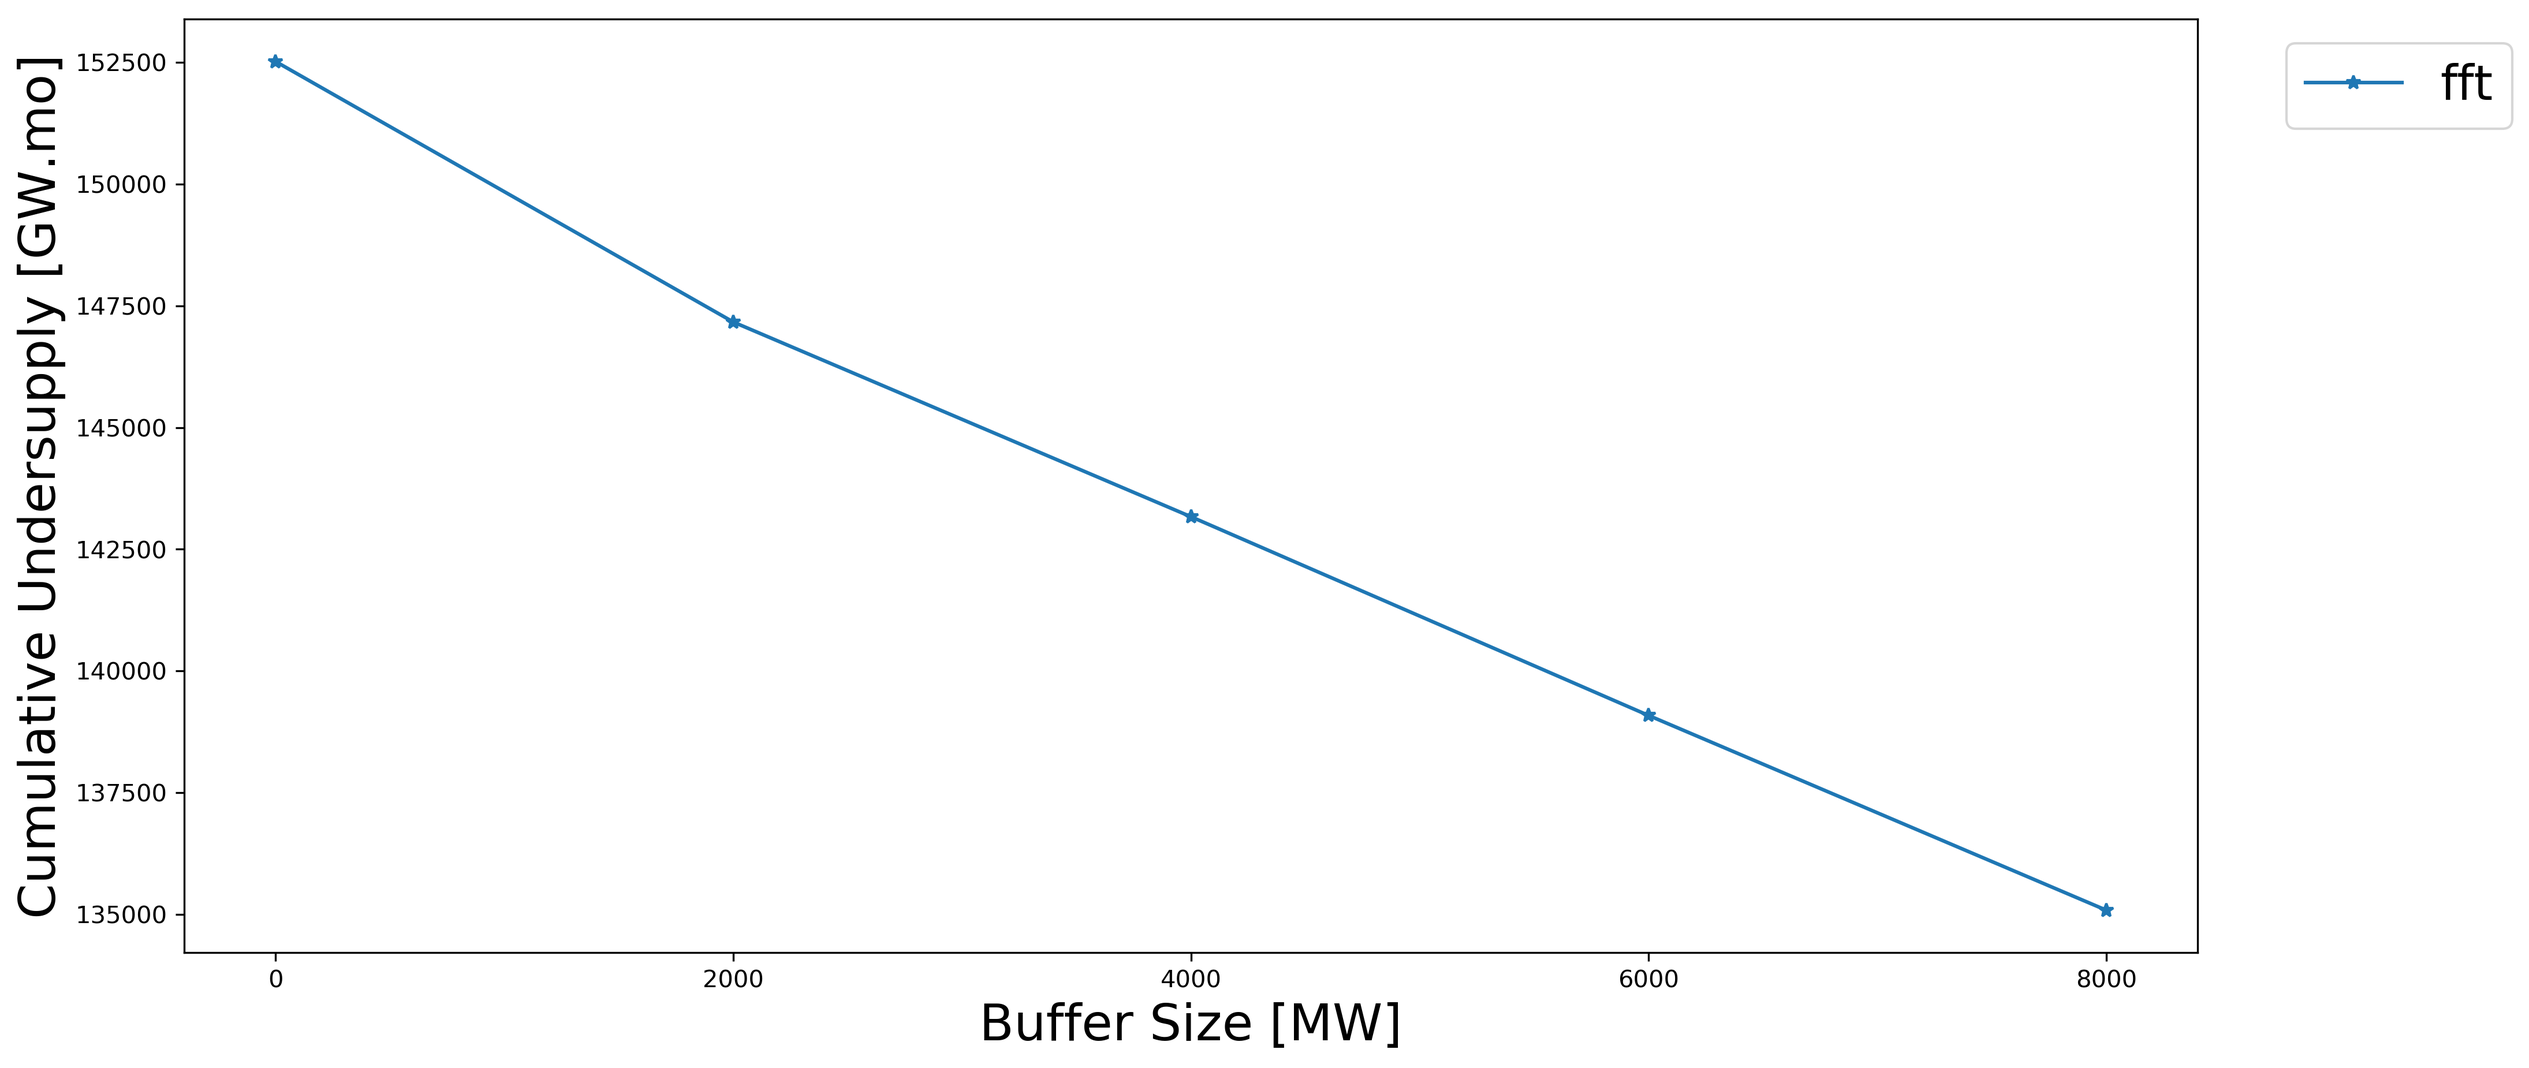
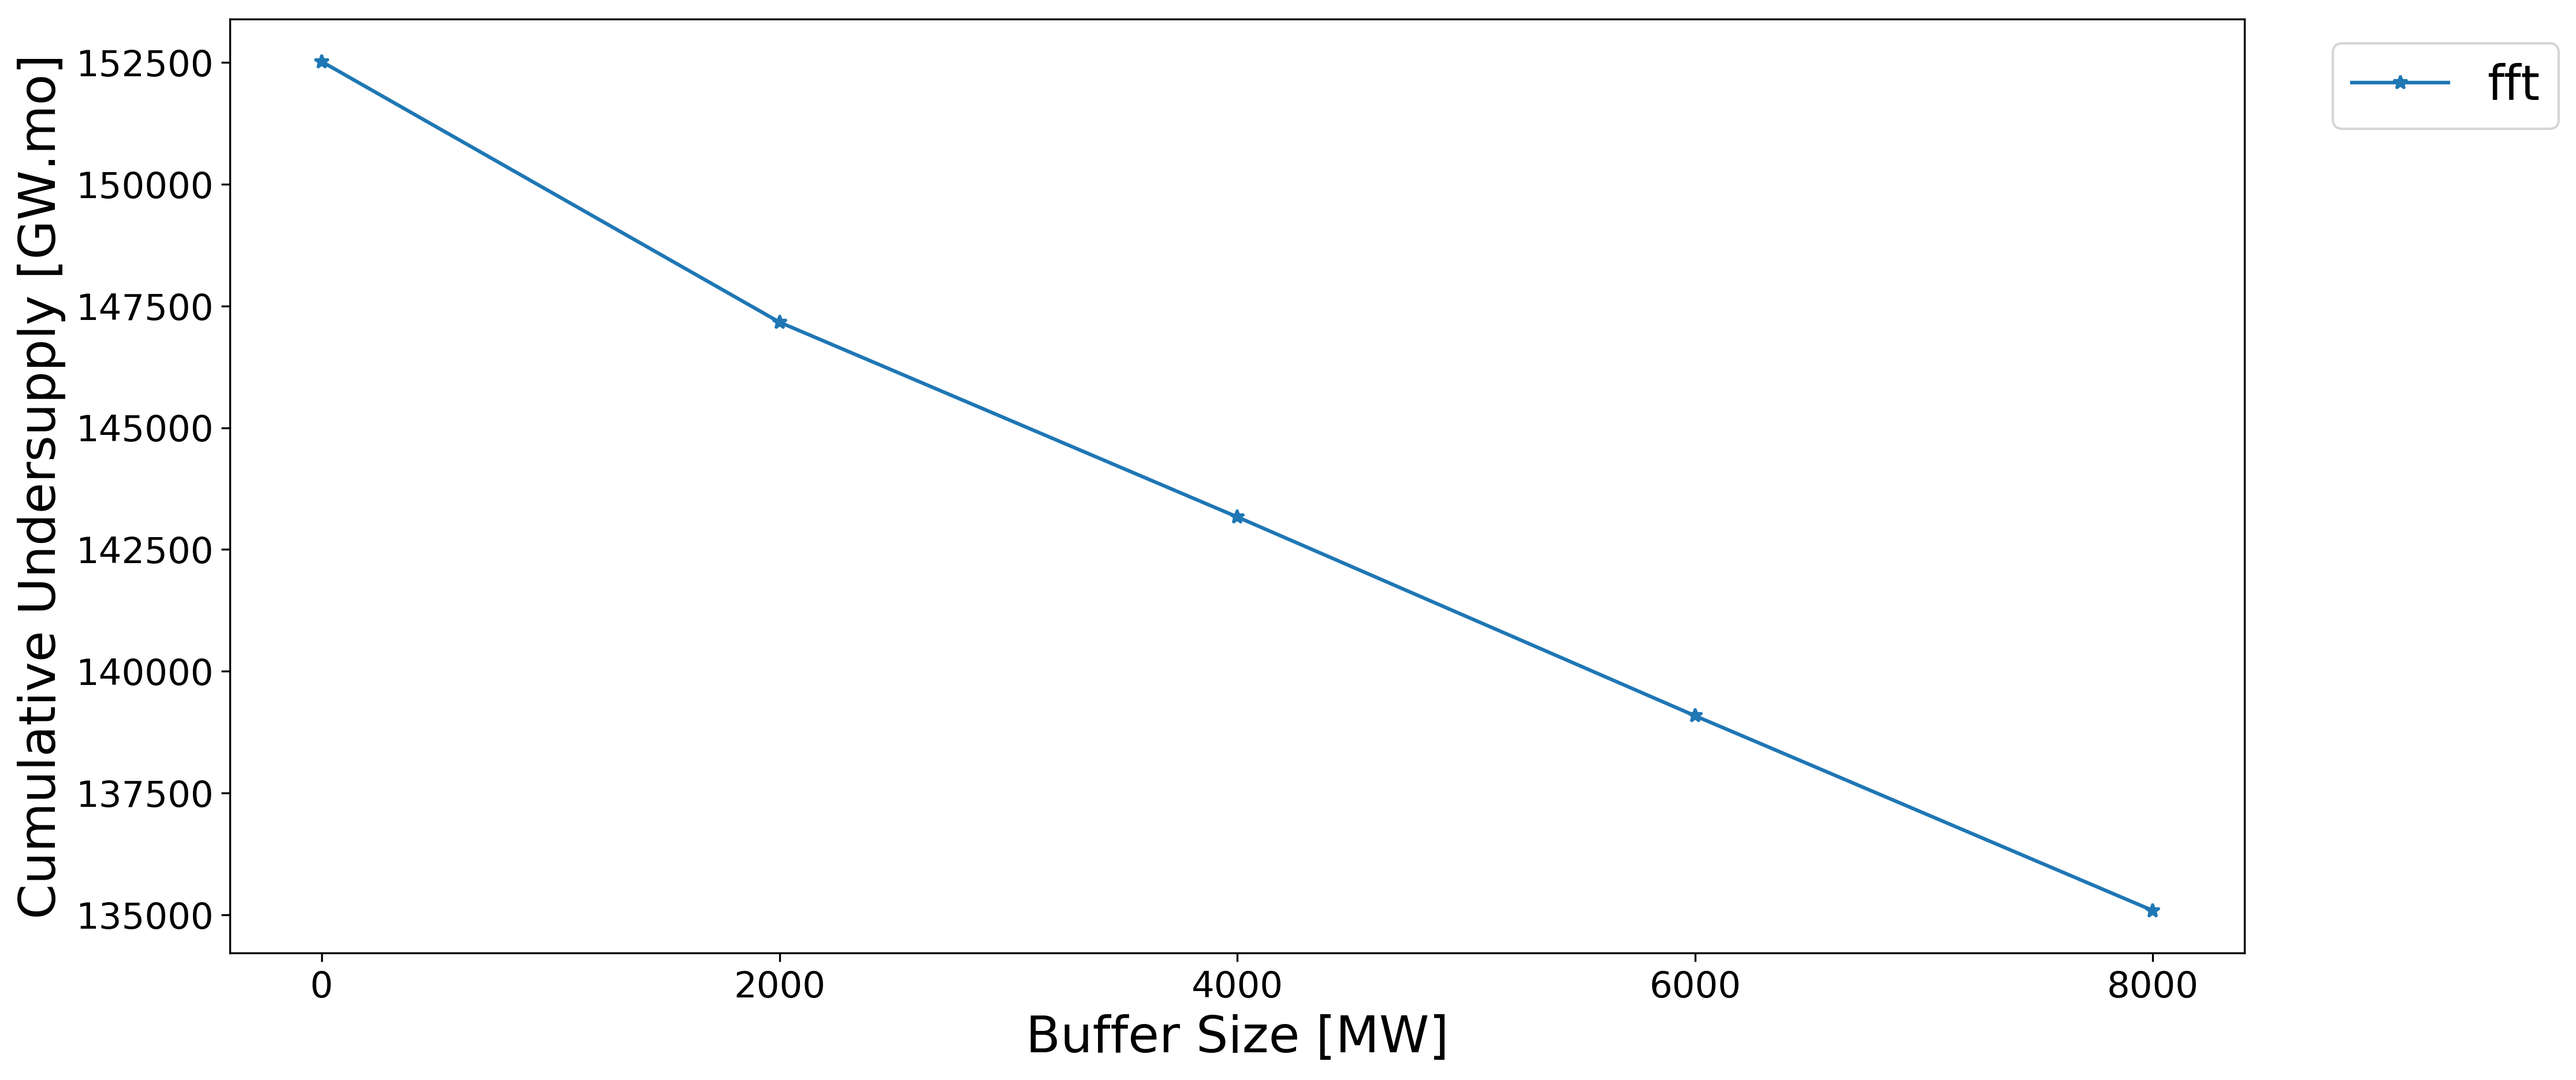
change in the fontsize

diff --git a/docs/final-report/report.tex b/docs/final-report/report.tex
@@ -80,15 +80,30 @@ Figure \ref{fig:23flow} shows the flow of Eg01-Eg23.
 
 \subsection{Flat Power Demand}
 
-This section presents plots of power for all the prediction methods. The power demand is 60000 MW throughout the whole simulation. The input files use the installed capacity feature. Buffer is set to zero, back steps is set to two, and steps takes the default value of one.
-Figures \ref{fig:23-NO}, \ref{fig:23-DO}, and \ref{fig:23-SO} display the power supply and demand.
-Table \ref{tab:23-power} records the number of steps whit under supply, the cumulative under supply, and the cumulative oversupply.
+This section presents plots of power for all the prediction methods. The power demand is 60000 MW throughout the whole simulation. Table \ref{tab:23-inputs} shows the input file values. Figures \ref{fig:23-NO}, \ref{fig:23-DO}, and \ref{fig:23-SO} display the power demand supply for the Non-optimizing (NO), Deterministic-optimizing (DO), and Stochastic-optimizing methods (SO), respectively.
+Table \ref{tab:23-power} records the number of steps with under supply, the cumulative under supply, and the cumulative oversupply. Cumulative under supply and cumulative oversupply represent the summation of the difference between the power supplied and the power demanded for all the time steps in the simulation. This magnitude could best be thought of as energy. The cumulative under supply represents the energy not provided during the time steps in which the supply did not meet the demand. Likewise, the oversupply would be the excess energy produced.
+By looking at table \ref{tab:23-power}, the smallest cumulative under supply and smallest amount of under supply time steps are for poly.
+
+\begin{table}[H]
+	\centering
+	\caption{EG01-EG23 input file values.}
+	\label{tab:23-inputs}
+	\begin{tabularx}{\textwidth}{lR}
+		\hline
+		Parameter			& Value \\ 	\hline
+		Demand equation		& 60e3  \\
+		Installed Capacity 	& 1 \\
+		Buffer    			& 0 \\
+		Forward Steps		& 1 \\
+		Backward Steps		& 2 \\		\hline
+	\end{tabularx}
+\end{table}
 
 \begin{figure}[H]
 	\centering
 	\includegraphics[width=\textwidth]{23-figures/23-power0-buffer01.png} 
 	\hfill
-	\caption{Constant power demand of 60GW and power supply with NO algorithms.}
+	\caption{Constant power demand of 60GW and power supply obtained with the NO algorithms.}
 	\label{fig:23-NO}
 \end{figure}
 
@@ -96,7 +111,7 @@ Table \ref{tab:23-power} records the number of steps whit under supply, the cumu
 	\centering
 	\includegraphics[width=\textwidth]{23-figures/23-power0-buffer02.png} 
 	\hfill
-	\caption{Constant power demand of 60GW and power supply with DO algorithms.}
+	\caption{Constant power demand of 60GW and power supply obtained with the DO algorithms.}
 	\label{fig:23-DO}
 \end{figure}
 
@@ -104,13 +119,13 @@ Table \ref{tab:23-power} records the number of steps whit under supply, the cumu
 	\centering
 	\includegraphics[width=\textwidth]{23-figures/23-power0-buffer03.png} 
 	\hfill
-	\caption{Constant power demand of 60GW and power supply with SO algorithms.}
+	\caption{Constant power demand of 60GW and power supply obtained with the SO algorithms.}
 	\label{fig:23-SO}
 \end{figure}
 
 \begin{table}[H]
 	\centering
-	\caption{Undersupply and oversupply of Power for the different algorithms used to calculate EG01-EG23.}
+	\caption{Undersupply and oversupply of Power for the different prediction algorithms used to calculate EG01-EG23.}
 	\label{tab:23-power}
 	\begin{tabularx}{\textwidth}{lRRR}
 		\hline
@@ -129,11 +144,7 @@ Table \ref{tab:23-power} records the number of steps whit under supply, the cumu
 
 \subsection{Buffer}
 
-This section presents a sensitivity analysis for different values of the buffer. Figure \ref{fig:23-buff} shows a comparison of the cumulative under supply for different buffer sizes.
-
-Figures \ref{fig:23-buf-ma} to \ref{fig:23-buf-fft} display a comparison for some of the methods of the power supply for different buffer sizes.
-
-The input files use the installed capacity feature. Buffer takes the values 0, 2000, 4000, 6000, and 8000. Back steps is set to two, and steps takes the default value of one.
+This section presents a sensitivity analysis for different values of the buffer. Figure \ref{fig:23-buff} shows a comparison of the cumulative under supply for different buffer sizes for some of the prediction methods. The cumulative under supply, remains constant for some of the methods and decreases with the increase of the buffer for others. Figure \ref{fig:23-buf-poly} displays the power supply and demand for different values of the buffer using poly. For this last case, the under supply remains constant. Figure \ref{fig:23-buf-poly} helps to understand the observed behavior. During at the transition we can see that even for the buffer with size 0 there is no under supply. Then, increasing the buffer will not decrease an under supply that is already zero.
 
 \begin{figure}[H]
 	\centering
@@ -145,76 +156,26 @@ The input files use the installed capacity feature. Buffer takes the values 0, 2
 
 \begin{figure}[H]
 	\centering
-	\includegraphics[width=\textwidth]{23-figures/23-power-buffer-ma.png} 
-	\hfill
-	\caption{Power supply for different buffer sizes using ma.}
-	\label{fig:23-buf-ma}
-\end{figure}
-
-\begin{figure}[H]
-	\centering
-	\includegraphics[width=\textwidth]{23-figures/23-power-buffer-arma.png} 
-	\hfill
-    \caption{Power supply for different buffer sizes using arma.}
-	\label{fig:23-buf-arma}
-\end{figure}
-
-\begin{figure}[H]
-	\centering
-	\includegraphics[width=\textwidth]{23-figures/23-power-buffer-arch.png} 
-	\hfill
-    \caption{Power supply for different buffer sizes using arch.}
-	\label{fig:23-buf-arch}
-\end{figure}
-
-\begin{figure}[H]
-	\centering
 	\includegraphics[width=\textwidth]{23-figures/23-power-buffer-poly.png} 
 	\hfill
-    \caption{Power supply for different buffer sizes using poly.}
+	\caption{Power supply for different buffer sizes using poly.}
 	\label{fig:23-buf-poly}
 \end{figure}
 
-\begin{figure}[H]
-	\centering
-	\includegraphics[width=\textwidth]{23-figures/23-power-buffer-exp_smoothing.png} 
-	\hfill
-    \caption{Power supply for different buffer sizes using exp\_smoothing.}
-	\label{fig:23-buf-exp_smoothing}
-\end{figure}
+\subsection{Forward Steps}
 
-\begin{figure}[H]
-	\centering
-	\includegraphics[width=\textwidth]{23-figures/23-power-buffer-holt_winters.png} 
-	\hfill
-	\caption{Power supply for different buffer sizes using holt\_winters.}
-	\label{fig:23-buf-hots_winters}
-\end{figure}
-
-\begin{figure}[H]
-	\centering
-	\includegraphics[width=\textwidth]{23-figures/23-power-buffer-fft.png} 
-	\hfill
-    \caption{Power supply for different buffer sizes using fft.}
-	\label{fig:23-buf-fft}
-\end{figure}
-
-\subsection{Steps forward}
-
-This section presents a sensitivity analysis for different values of steps.
-Figure \ref{fig:23-steps} shows a comparison of the cumulative under supply for different values of steps forward.
-
-Figures \ref{fig:23-ste-poly} and \ref{fig:23-ste-fft} display a comparison for some of the methods of the power supply for different steps.
-
-The input files use the installed capacity feature. Buffer is set to zero, back steps is set to two, and steps takes the values 1, 2, 3, 4, and 5.
-
-Seeing figure \ref{fig:23-steps} we note that the more steps used, the worse the simulation performs. Figure \ref{fig:23-ste-fft-mixerout} helps to understand such behavior. 'Mixerout' is the commodity that represents the fuel that FR use. This figure shows that the LWRs produce enough fuel to almost start all the FRs. However, this expense of fuel is too big to keep the ones already deployed running until they produce their own fuel, so their power supply oscillates. The steps capability should be used cautiously to avoid this from happening.
+This section presents a sensitivity analysis for different values of forward steps chosen for the input files.
+Figure \ref{fig:23-steps} shows a plot of the cumulative under supply for different values of forward steps using poly.
+Slightly increasing the number of forward steps decreases the under supply. Increasing the number of forward steps too much has a negative impact on the results.
+Figures \ref{fig:23-ste-poly} displays the plots for power supply for different number of forward steps. For 4 and 5 forward steps, the under supply increases.
+The cause of this is that increasing the number of forward steps increases the supply of power. The increase in power production means that more reactors are deployed and consequently, more fuel to start is required. As they require too much fuel, the reactors will not start properly, and the scenario will fail. Figure \ref{fig:23-ste-fft-mixerout} helps to understand this behavior. This figure shows that the demand of fuel for the FRs is larger than the supply of the same commodity.
+The forward steps capability should be used cautiously to avoid this under supply from happening.
 
 \begin{figure}[H]
 	\centering
 	\includegraphics[width=\textwidth]{23-figures/23-sens-steps.png} 
 	\hfill
-	\caption{Sensitivity analysis for different number of steps forward for some prediction algorithms.}
+	\caption{Cumulative under supply for different number of forward steps using poly.}
 	\label{fig:23-steps}
 \end{figure}
 
@@ -228,90 +189,10 @@ Seeing figure \ref{fig:23-steps} we note that the more steps used, the worse the
 
 \begin{figure}[H]
 	\centering
-	\includegraphics[width=\textwidth]{23-figures/23-power-buffer0-fft-steps.png} 
+	\includegraphics[width=\textwidth]{23-figures/0-S5-poly-mixerout.png} 
 	\hfill
-	\caption{Power supply for different values of steps forward using fft.}
-	\label{fig:23-ste-fft}
-\end{figure}
-
-\begin{figure}[H]
-	\centering
-	\includegraphics[width=\textwidth]{23-figures/0-S4-fft-mixerout.png} 
-	\hfill
-	\caption{Power supply for 4 steps forward using fft.}
+	\caption{Power supply for 5 forward steps using poly.}
 	\label{fig:23-ste-fft-mixerout}
-\end{figure}
-
-\subsection{Back steps}
-
-This section presents a sensitivity analysis for different values of  back steps. Figure \ref{fig:23-backs} shows a comparison of the cumulative under supply for different values of back steps.
-
-Figures \ref{fig:23-back-ma} to \ref{fig:23-back-fft} display a comparison for some of the methods of the power supply for different values of back steps.
-
-The input files use the installed capacity feature. The buffer is set to zero, steps is set to two, and back steps takes the values 1, 2, 3, 4, and 5.
-
-\begin{figure}[H]
-	\centering
-	\includegraphics[width=\textwidth]{23-figures/23-sens-backs.png} 
-	\hfill
-	\caption{Sensitivity analysis for different number of back steps for some prediction algorithms.}
-	\label{fig:23-backs}
-\end{figure}
-
-\begin{figure}[H]
-	\centering
-	\includegraphics[width=\textwidth]{23-figures/23-power-buffer0-ma-back.png} 
-	\hfill
-	\caption{Power supply for different values of back steps using ma.}
-	\label{fig:23-back-ma}
-\end{figure}
-
-\begin{figure}[H]
-	\centering
-	\includegraphics[width=\textwidth]{23-figures/23-power-buffer0-arma-back.png} 
-	\hfill
-	\caption{Power supply for different values of back steps using arma.}
-	\label{fig:23-back-arma}
-\end{figure}
-
-\begin{figure}[H]
-	\centering
-	\includegraphics[width=\textwidth]{23-figures/23-power-buffer0-arch-back.png} 
-	\hfill
-	\caption{Power supply for different values of back steps using arch.}
-	\label{fig:23-back-arch}
-\end{figure}
-
-\begin{figure}[H]
-	\centering
-	\includegraphics[width=\textwidth]{23-figures/23-power-buffer0-poly-back.png} 
-	\hfill
-	\caption{Power supply for different values of back steps using poly.}
-	\label{fig:23-back-poly}
-\end{figure}
-
-\begin{figure}[H]
-	\centering
-	\includegraphics[width=\textwidth]{23-figures/23-power-buffer0-exp_smoothing-back.png} 
-	\hfill
-	\caption{Power supply for different values of back steps using exp\_smoothing.}
-	\label{fig:23-back-exp_smoothing}
-\end{figure}
-
-\begin{figure}[H]
-	\centering
-	\includegraphics[width=\textwidth]{23-figures/23-power-buffer0-holt_winters-back.png} 
-	\hfill
-	\caption{Power supply for different values of back steps using holt\_winters.}
-	\label{fig:23-back-hots_winters}
-\end{figure}
-
-\begin{figure}[H]
-	\centering
-	\includegraphics[width=\textwidth]{23-figures/23-power-buffer0-fft-back.png} 
-	\hfill
-	\caption{Power supply for different values of back steps using fft.}
-	\label{fig:23-back-fft}
 \end{figure}
 
 \subsection{Different commodities}
@@ -504,7 +385,7 @@ Table \ref{tab:24-lin-power} records the number of steps whit under supply, the 
 	\centering
 	\includegraphics[width=\textwidth]{24-figures/lin-24-power-buffer01.png} 
 	\hfill
-	\caption{NO algorithms.}
+	\caption{Linearly increasing power demand of 250MW/y and power supply obtained with the NO algorithms.}
 	\label{fig:24-lin-NO}
 \end{figure}
 
@@ -512,7 +393,7 @@ Table \ref{tab:24-lin-power} records the number of steps whit under supply, the 
 	\centering
 	\includegraphics[width=\textwidth]{24-figures/lin-24-power-buffer02.png} 
 	\hfill
-	\caption{DO algorithms.}
+	\caption{Linearly increasing power demand of 250MW/y and power supply obtained with the DO algorithms.}
 	\label{fig:24-lin-DO}
 \end{figure}
 
@@ -520,13 +401,13 @@ Table \ref{tab:24-lin-power} records the number of steps whit under supply, the 
 	\centering
 	\includegraphics[width=\textwidth]{24-figures/lin-24-power-buffer03.png} 
 	\hfill
-	\caption{SO algorithms.}
+	\caption{Linearly increasing power demand of 250MW/y and power supply obtained with the SO algorithms.}
 	\label{fig:24-lin-SO}
 \end{figure}
 
 \begin{table}[H]
 	\centering
-	\caption{Undersupply and oversupply of Power for the different algorithms used to calculate EG01-EG24.}
+	\caption{Undersupply and oversupply of Power for the different prediction algorithms used to calculate EG01-EG24.}
 	\label{tab:24-lin-power}
 	\begin{tabularx}{\textwidth}{lRRR}
 		\hline
@@ -579,7 +460,7 @@ Figure \ref{fig:29flow} shows the flow of Eg01-Eg29.
 	\label{fig:29flow}
 \end{figure}
 
-\subsection{Power}
+\subsection{Flat Power Demand}
 
 This section presents plots of power for all the prediction methods. The power demand is 60000 MW throughout the whole simulation. The input files use the installed capacity feature. Buffer is set to zero, back steps is set to two, and steps takes the default value of one.
 Figures \ref{fig:29-NO}, \ref{fig:29-DO}, and \ref{fig:29-SO} display the power supply and demand.
@@ -611,7 +492,7 @@ Table \ref{tab:29-power} records the number of steps with under supply, the cumu
 
 \begin{table}[H]
 	\centering
-	\caption{Undersupply and oversupply of Power for the different algorithms used to calculate EG01-EG29.}
+	\caption{Undersupply and oversupply of Power for the different prediction algorithms used to calculate EG01-EG29.}
 	\label{tab:29-power}
 	\begin{tabularx}{\textwidth}{lRRR}
 		\hline
@@ -700,7 +581,7 @@ The input files use the installed capacity feature. Buffer takes the values 0, 2
 	\label{fig:29-buf-fft}
 \end{figure}
 
-\subsection{Steps forward}
+\subsection{Forward Steps}
 
 This section presents a sensitivity analysis for different values of steps.
 Figure \ref{fig:29-steps} shows a comparison of the cumulative under supply for different values of steps forward.
@@ -973,7 +854,7 @@ Table \ref{tab:30-lin-power} records the number of steps whit under supply, the 
 	\centering
 	\includegraphics[width=\textwidth]{30-figures/lin-30-power-buffer01.png} 
 	\hfill
-	\caption{NO algorithms.}
+	\caption{Linearly increasing power demand of 250MW/y and power supply obtained with the NO algorithms.}
 	\label{fig:30-lin-NO}
 \end{figure}
 
@@ -981,7 +862,7 @@ Table \ref{tab:30-lin-power} records the number of steps whit under supply, the 
 	\centering
 	\includegraphics[width=\textwidth]{30-figures/lin-30-power-buffer02.png} 
 	\hfill
-	\caption{DO algorithms.}
+	\caption{Linearly increasing power demand of 250MW/y and power supply obtained with the DO algorithms.}
 	\label{fig:30-lin-DO}
 \end{figure}
 
@@ -989,13 +870,13 @@ Table \ref{tab:30-lin-power} records the number of steps whit under supply, the 
 	\centering
 	\includegraphics[width=\textwidth]{30-figures/lin-30-power-buffer03.png} 
 	\hfill
-	\caption{SO algorithms.}
+	\caption{Linearly increasing power demand of 250MW/y and power supply obtained with the SO algorithms.}
 	\label{fig:30-lin-SO}
 \end{figure}
 
 \begin{table}[H]
 	\centering
-	\caption{Undersupply and oversupply of Power for the different algorithms used to calculate EG01-EG24.}
+	\caption{Undersupply and oversupply of Power for the different prediction algorithms used to calculate EG01-EG24.}
 	\label{tab:30-lin-power}
 	\begin{tabularx}{\textwidth}{lRRR}
 		\hline
